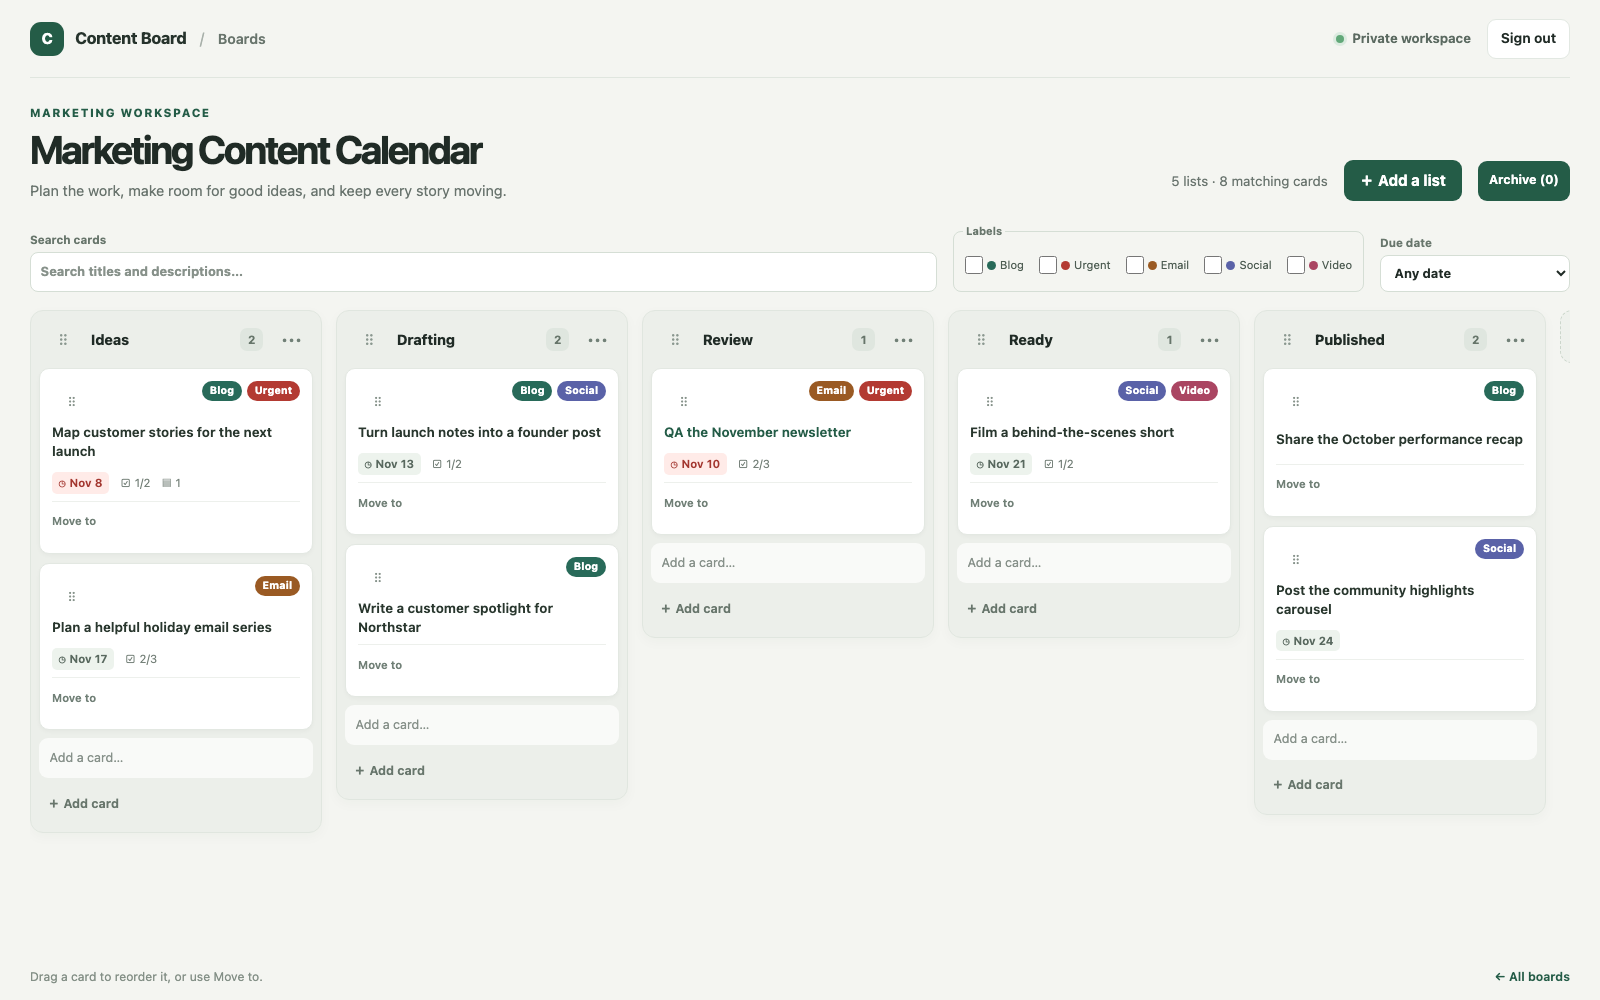
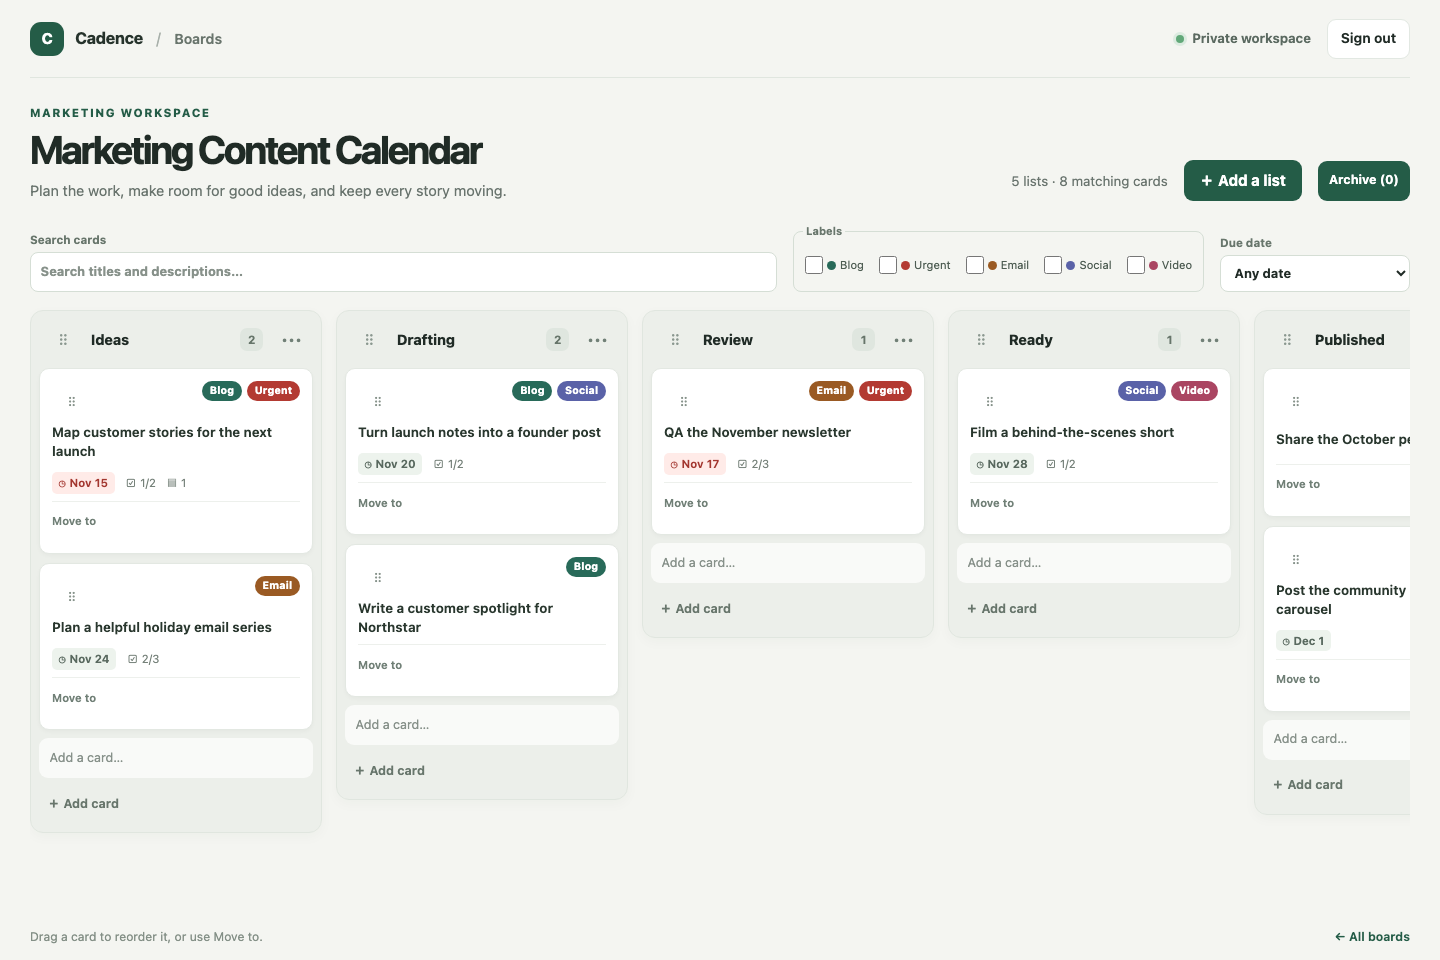
Use product branding in the app, repository and template library (#5)

diff --git a/app/auth-form.tsx b/app/auth-form.tsx
@@ -41,7 +41,7 @@ export function AuthForm({ mode, expired = false }: Props) {
 
   return (
     <main>
-      <p className="eyebrow">Content Board</p>
+      <p className="eyebrow">Cadence</p>
       <h1>{isSignup ? "Create your account" : "Welcome back"}</h1>
       <p>{isSignup ? "Your private workspace is created when you sign up." : "Sign in to open your private workspace."}</p>
       {expired && <p className="error" role="status">Your session expired. Please sign in again.</p>}
@@ -52,7 +52,7 @@ export function AuthForm({ mode, expired = false }: Props) {
         <label>Password<input name="password" type="password" autoComplete={isSignup ? "new-password" : "current-password"} required minLength={isSignup ? 12 : undefined} maxLength={128} /></label>
         <button type="submit" disabled={busy}>{busy ? "Please wait…" : isSignup ? "Create account" : "Sign in"}</button>
       </form>
-      <p>{isSignup ? "Already have an account? " : "New to Content Board? "}<Link href={isSignup ? "/login" : "/signup"}>{isSignup ? "Sign in" : "Create an account"}</Link></p>
+      <p>{isSignup ? "Already have an account? " : "New to Cadence? "}<Link href={isSignup ? "/login" : "/signup"}>{isSignup ? "Sign in" : "Create an account"}</Link></p>
     </main>
   );
 }

diff --git a/app/(private)/dashboard-client.tsx b/app/(private)/dashboard-client.tsx
@@ -80,7 +80,7 @@ export function DashboardClient({ initialBoards, userName }: Props) {
     <main className="app-main workspace-page">
       <div className="app-shell">
         <header className="topbar">
-          <Link href="/" className="brand"><span className="brand-mark">C</span><span>Content Board</span></Link>
+          <Link href="/" className="brand"><span className="brand-mark">C</span><span>Cadence</span></Link>
           <div className="topbar-actions"><span className="private-pill"><span /> Private workspace</span><SignOutButton /></div>
         </header>
 
@@ -140,7 +140,7 @@ export function DashboardClient({ initialBoards, userName }: Props) {
           </div>
           {boards.length === 0 && <p className="empty-workspace">No boards yet. Create one to start planning.</p>}
         </section>
-        <footer className="workspace-footer"><span>Small steps make great stories.</span><span>Content Board · Private by design</span></footer>
+        <footer className="workspace-footer"><span>Small steps make great stories.</span><span>Cadence · Private by design</span></footer>
       </div>
     </main>
   );

diff --git a/app/(private)/board-client.tsx b/app/(private)/board-client.tsx
@@ -407,7 +407,7 @@ export function BoardClient({ initialBoard, initialArchivedCards }: Props) {
   return (
     <main className="app-main board-page">
       <header className="topbar board-topbar">
-        <div className="board-breadcrumbs"><Link href="/" className="brand"><span className="brand-mark">C</span><span>Content Board</span></Link><span className="breadcrumb-divider">/</span><span className="breadcrumb-current">Boards</span></div>
+        <div className="board-breadcrumbs"><Link href="/" className="brand"><span className="brand-mark">C</span><span>Cadence</span></Link><span className="breadcrumb-divider">/</span><span className="breadcrumb-current">Boards</span></div>
         <div className="topbar-actions"><span className="private-pill"><span /> Private workspace</span><SignOutButton /></div>
       </header>
 

diff --git a/app/layout.tsx b/app/layout.tsx
@@ -1,6 +1,6 @@
 import "./style.css";
 import type { ReactNode } from "react";
-export const metadata = { title: "Content Board", description: "A private marketing content workspace." };
+export const metadata = { title: "Cadence", description: "A private marketing content workspace." };
 export default function Layout({ children }: { children: ReactNode }) {
   return <html lang="en"><body>{children}</body></html>;
 }

diff --git a/README.md b/README.md
@@ -1,10 +1,12 @@
-# Content Board
+# Cadence
 
 A private content-planning board for marketing teams and creators.
 
-**Neander library:** Content Board · **Category:** Marketing
+**Product inspiration:** Trello-inspired boards and cards for content planning, with its own Cadence branding.
 
-![Content Board with fictional sample data](.neander/thumbnail.png)
+**Neander library:** Cadence · **Category:** Marketing
+
+![Cadence with fictional sample data](.neander/thumbnail.png)
 
 ## What you can build
 
@@ -15,7 +17,7 @@ A private content-planning board for marketing teams and creators.
 
 ## How this fits into Neander
 
-This is the open-source app behind Neander’s **Content Board** starter. You can
+This is the open-source app behind Neander’s **Cadence** starter. You can
 run and modify it on its own without a Neander account, or use it as a starting
 point in Neander.
 
@@ -41,8 +43,8 @@ PostgreSQL service.
 ### 1. Install the app
 
 ```sh
-git clone https://github.com/neanderhq/content-board-template.git
-cd content-board-template
+git clone https://github.com/neanderhq/cadence.git
+cd cadence
 pnpm install --frozen-lockfile
 cp .env.example .env.local
 ```
@@ -50,7 +52,7 @@ cp .env.example .env.local
 ### 2. Start local PostgreSQL
 
 ```sh
-PGPORT=55434 docker compose -p content-board-dev -f compose.dev.yaml up -d --wait
+PGPORT=55434 docker compose -p cadence-dev -f compose.dev.yaml up -d --wait
 ```
 
 The example database URL uses port `55434`. The Compose project name keeps

diff --git a/docs/template-onboarding.md b/docs/template-onboarding.md
@@ -9,7 +9,7 @@ See the repository README for current local setup and contributor instructions.
 
 ## Source and publication
 
-Source: `neanderhq/content-board-template`. Template ID: `content-board`.
+Source: `neanderhq/cadence`. Template ID: `content-board`.
 The imported baseline is the exact deployed source of Neander project
 `proj_2c624900b95c` at `8aac2ab6b2f22987fa5a6150ee60afcc0d8cbe34`.
 Application UI and ownership behavior are preserved. Only fictional sample data

diff --git a/docs/architecture/stack-decision.md b/docs/architecture/stack-decision.md
@@ -1,6 +1,6 @@
 # Stack decision
 
-Content Board uses Next.js and TypeScript with one production container on Cloud
+Cadence uses Next.js and TypeScript with one production container on Cloud
 Run, PostgreSQL through Drizzle, and Better Auth email/password accounts.
 
 The canonical `.neander/compose.yaml` declares managed Neon, the public application
